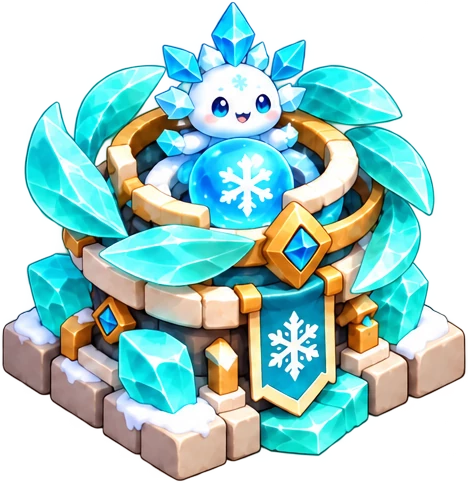
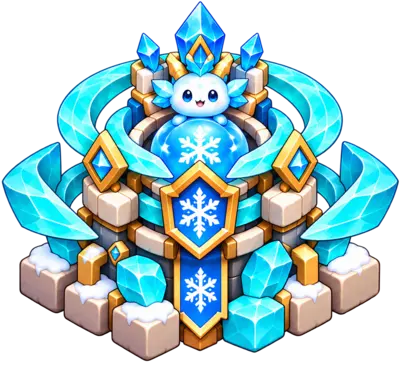
Publish viewport synchronization and approved ice tower textures

diff --git a/ui.js b/ui.js
@@ -1,4 +1,4 @@
-(function(){'use strict';const F=Forest,$=id=>document.getElementById(id);let scene,selected=-1,buildType=-1,manualPause=false,soundOn=false,audio,toastTimer,screenStack=['home'],selectedChapter=0;const PROGRESS_KEY='starwish-remake-campaign-v1';let progress=F.emptyProgress();try{progress=F.readProgress(JSON.parse(localStorage.getItem(PROGRESS_KEY)));}catch{}const formNames=F.TOWERS.map(t=>t.forms);const game=()=>scene.model;const portrait=()=>matchMedia('(orientation:portrait)').matches;
+(function(){'use strict';const F=Forest,artURL=ForestArt.url,$=id=>document.getElementById(id);let scene,selected=-1,buildType=-1,manualPause=false,soundOn=false,audio,toastTimer,screenStack=['home'],selectedChapter=0;const PROGRESS_KEY='starwish-remake-campaign-v1';let progress=F.emptyProgress();try{progress=F.readProgress(JSON.parse(localStorage.getItem(PROGRESS_KEY)));}catch{}const formNames=F.TOWERS.map(t=>t.forms);const game=()=>scene.model;const portrait=()=>matchMedia('(orientation:portrait)').matches;
 function pauseState(){if(!scene)return;game().paused=manualPause||portrait()||document.hidden||screenStack.at(-1)!=='battle';$('pauseBtn').textContent=manualPause?'▸':'Ⅱ';$('pauseBtn').setAttribute('aria-label',manualPause?'繼續遊戲':'暫停遊戲');}
 function toast(text){clearTimeout(toastTimer);$('toast').textContent=text;$('toast').hidden=false;toastTimer=setTimeout(()=>$('toast').hidden=true,2600);}
 function sound(kind){if(!soundOn)return;try{audio??=new(window.AudioContext||window.webkitAudioContext)();if(audio.state==='suspended')audio.resume();const o=audio.createOscillator(),gain=audio.createGain();o.connect(gain);gain.connect(audio.destination);o.type=kind==='fire'?'triangle':'sine';o.frequency.setValueAtTime({arrow:680,fire:150,ice:1000,lightning:230,meteor:90,leak:110,upgrade:440}[kind]||440,audio.currentTime);o.frequency.exponentialRampToValueAtTime(kind==='arrow'?390:70,audio.currentTime+.12);gain.gain.setValueAtTime(.025,audio.currentTime);gain.gain.exponentialRampToValueAtTime(.001,audio.currentTime+.14);o.start();o.stop(audio.currentTime+.15);}catch{}}
@@ -25,14 +25,14 @@ function rebuildPlatforms(){
 }
 function hideTray(){selected=-1;buildType=-1;scene.select(-1);$('tray').hidden=true;document.body.classList.remove('tray-open');}
 function select(i){selected=i;buildType=-1;scene.select(i);renderTray();}
-function art(t){return F.TOWERS[t.type].id+'-'+F.variant(t)+'.webp';}
+function art(t){return artURL('assets/'+F.TOWERS[t.type].id+'-'+F.variant(t)+'.webp');}
 function statHTML(t){const s=F.stats(t);return `<strong>${t.type===4?'每秒傷害':'傷害'} ${Math.round(s.damage)}${s.splash?' · 範圍':''}</strong>${t.type===4?'持續鎖定':('每秒 '+(1/s.interval).toFixed(2)+' 次')} · 射程 ${(s.range/70).toFixed(1)}`;}
 function doBuild(){const r=game().build(selected,buildType);if(!r.ok)return toast(r.reason);sound('upgrade');buildType=-1;scene.process();renderTray();}
 function doUpgrade(branch){const t=game().towers.find(t=>t.pad===selected);if(!t)return;const r=game().upgrade(t,branch);if(!r.ok)return toast(r.reason);sound('upgrade');scene.process();renderTray();}
-function renderTray(){if(selected<0)return;const g=game(),t=g.towers.find(t=>t.pad===selected);$('tray').hidden=false;document.body.classList.add('tray-open');const box=$('trayContent');box.classList.toggle('shop-list',!t&&buildType<0);if(!t&&buildType<0){box.innerHTML=`<span class="tray-caption">選擇你的守護夥伴<br><b>${g.towers.length} / 6 座</b></span>`+F.TOWERS.map((d,i)=>`<button class="shop" data-shop="${i}" aria-label="${d.name}，${d.cost}金幣"><img src="assets/${d.id}-0.webp" alt="${d.name}"></button>`).join('');box.querySelectorAll('[data-shop]').forEach(b=>b.onclick=()=>{buildType=+b.dataset.shop;scene.drawRange(buildType);renderTray();});return;}
-if(!t){const d=F.TOWERS[buildType],temp={type:buildType,level:1,branch:-1};box.innerHTML=`<img class="tower-portrait" src="assets/${d.id}-0.webp" alt=""><div class="tower-title"><b>${d.name}</b><small>確認射程後建造</small></div><div class="stats">${statHTML(temp)}</div><button id="confirmBuild" class="tray-action primary">建造<small>◉ ${d.cost}</small></button><button id="backShop" class="tray-action">返回</button>`;$('confirmBuild').onclick=doBuild;$('backShop').onclick=()=>{buildType=-1;scene.drawRange();renderTray();};const reason=g.reason(selected,buildType);if(reason){$('confirmBuild').classList.remove('primary');$('confirmBuild').innerHTML=`${reason.startsWith('金幣')?'金幣不足':'無法建造'}<small>${reason}</small>`;}return;}
+function renderTray(){if(selected<0)return;const g=game(),t=g.towers.find(t=>t.pad===selected);$('tray').hidden=false;document.body.classList.add('tray-open');const box=$('trayContent');box.classList.toggle('shop-list',!t&&buildType<0);if(!t&&buildType<0){box.innerHTML=`<span class="tray-caption">選擇你的守護夥伴<br><b>${g.towers.length} / 6 座</b></span>`+F.TOWERS.map((d,i)=>`<button class="shop" data-shop="${i}" aria-label="${d.name}，${d.cost}金幣"><img src="${artURL(`assets/${d.id}-0.webp`)}" alt="${d.name}"></button>`).join('');box.querySelectorAll('[data-shop]').forEach(b=>b.onclick=()=>{buildType=+b.dataset.shop;scene.drawRange(buildType);renderTray();});return;}
+if(!t){const d=F.TOWERS[buildType],temp={type:buildType,level:1,branch:-1};box.innerHTML=`<img class="tower-portrait" src="${artURL(`assets/${d.id}-0.webp`)}" alt=""><div class="tower-title"><b>${d.name}</b><small>確認射程後建造</small></div><div class="stats">${statHTML(temp)}</div><button id="confirmBuild" class="tray-action primary">建造<small>◉ ${d.cost}</small></button><button id="backShop" class="tray-action">返回</button>`;$('confirmBuild').onclick=doBuild;$('backShop').onclick=()=>{buildType=-1;scene.drawRange();renderTray();};const reason=g.reason(selected,buildType);if(reason){$('confirmBuild').classList.remove('primary');$('confirmBuild').innerHTML=`${reason.startsWith('金幣')?'金幣不足':'無法建造'}<small>${reason}</small>`;}return;}
 const name=formNames[t.type][F.variant(t)],cost=F.upgradeCost(t);let actions='';if(t.level===1&&F.TOWERS[t.type].branches.length){actions=`<div class="branch-choice">${F.TOWERS[t.type].branches.map((name,i)=>`<button class="tray-action ${i===0?'primary':''}" data-branch="${i}">${name}<small>升至 Lv.2 · ◉ ${cost}</small></button>`).join('')}</div>`;}else if(!F.finalForm(t)){const r=g.upgradeReason(t);actions=`<button id="upgradeTower" class="tray-action ${r?'':'primary'}">${r?'金幣不足':t.level===F.TOWERS[t.type].maxLevel-1?'最終進化':'升至 Lv.'+(t.level+1)}<small>${r||'◉ '+cost}</small></button>`;}else actions='<span class="tray-caption"><b>✦ 最終型態</b><br>已達最高等級</span>';
-box.innerHTML=`<img class="tower-portrait" src="assets/${art(t)}" alt=""><div class="tower-title"><b>${name}</b><small>Lv.${t.level} / ${F.TOWERS[t.type].maxLevel}</small></div><div class="stats">${statHTML(t)}</div>${actions}<button id="towerDetails" class="tray-action tray-info" aria-label="查看守護塔詳細能力">ⓘ</button><button id="sellTower" class="tray-action danger">拆除<small>返還 ◉ ${Math.floor(t.spent*.7)}</small></button>`;box.querySelectorAll('[data-branch]').forEach(b=>b.onclick=()=>doUpgrade(+b.dataset.branch));if($('upgradeTower'))$('upgradeTower').onclick=()=>doUpgrade();$('towerDetails').onclick=()=>details(t);$('sellTower').onclick=()=>{g.sell(t);scene.process();buildType=-1;scene.drawRange();renderTray();};}
+box.innerHTML=`<img class="tower-portrait" src="${art(t)}" alt=""><div class="tower-title"><b>${name}</b><small>Lv.${t.level} / ${F.TOWERS[t.type].maxLevel}</small></div><div class="stats">${statHTML(t)}</div>${actions}<button id="towerDetails" class="tray-action tray-info" aria-label="查看守護塔詳細能力">ⓘ</button><button id="sellTower" class="tray-action danger">拆除<small>返還 ◉ ${Math.floor(t.spent*.7)}</small></button>`;box.querySelectorAll('[data-branch]').forEach(b=>b.onclick=()=>doUpgrade(+b.dataset.branch));if($('upgradeTower'))$('upgradeTower').onclick=()=>doUpgrade();$('towerDetails').onclick=()=>details(t);$('sellTower').onclick=()=>{g.sell(t);scene.process();buildType=-1;scene.drawRange();renderTray();};}
 function details(t){const s=F.stats(t);open(formNames[t.type][F.variant(t)],`<p>${F.TOWERS[t.type].desc}</p><div class="menu-grid"><div>${t.type===4?'初始每秒傷害':'傷害'} <b>${Math.round(s.damage)}</b></div><div>攻速 <b>${t.type===4?'持續照射':(1/s.interval).toFixed(2)+' 次／秒'}</b></div><div>射程 <b>${(s.range/70).toFixed(1)}</b></div><div>型態 <b>${F.finalForm(t)?'最終型態':'Lv.'+t.level}</b></div></div><p>${F.ability(t)}</p><p class="muted">射程以平台中心計算，圓圈與實際攻擊共用同一組數值。</p>`,'detail');}
 function layout(){if(!scene)return;game().pads.forEach(([x,y],i)=>{const b=$("pad"+i);if(!b)return;const t=game().towers.find(t=>t.pad===i);b.style.left=(scene.world.x+x*scene.worldScale)+"px";b.style.top=(scene.world.y+(y-18)*scene.worldScale)+"px";b.style.width=Math.max(44,100*scene.worldScale)+"px";b.style.height=Math.max(44,88*scene.worldScale)+"px";b.setAttribute("aria-label",t?"選取"+formNames[t.type][F.variant(t)]+"，第"+(i+1)+"平台":"第"+(i+1)+"建塔平台");});}
 function hud(){if(!scene)return;const g=game();$('health').textContent=g.hp;$('gold').textContent=g.gold;$('wave').textContent=g.wave;$('speedBtn').textContent=g.speed+'×';$('autoBtn').checked=g.auto;$('waveTotal').textContent='/'+g.waves.length;$('chapterLabel').textContent=F.CHAPTERS[g.stage.chapter].name+' · '+String(g.stage.number).padStart(2,'0');$('stageTitle').textContent=g.stage.name;const next=Math.min(g.wave+1,g.waves.length);$('waveBtn').innerHTML=g.phase==='combat'?`第 ${g.wave} 波進行中`:`開始第 ${next} 波 <span>▸</span>`;$('waveBtn').disabled=g.phase!=='prep';if(selected>=0)renderTray();layout();}
@@ -41,7 +41,7 @@ function preview(){const n=Math.min(game().wave,game().waves.length-1),w=game().
 function menu(){const g=game();open(g.stage.name+' · 暫歇',`<div class="menu-grid"><div>本場擊敗 <b>${g.kills}</b></div><div>守護塔 <b>${g.towers.length} / 6</b></div><div>防守波次 <b>${g.wave} / ${g.waves.length}</b></div><div>城堡生命 <b>${g.hp} / 20</b></div></div><div class="modal-actions"><button id="resume" class="primary">繼續守護 ▸</button><button id="restart">重新開始</button><button id="goHome">主畫面</button></div><div class="modal-actions"><button id="chooseStage">選擇關卡</button><button id="menuGallery">守護塔圖鑑</button><button id="menuHelp">玩法說明</button><button id="menuSound">音效：${soundOn?'開啟':'關閉'}</button></div>`,'menu');$('resume').onclick=()=>{manualPause=false;close();};$('restart').onclick=confirmRestart;$('goHome').onclick=home;$('chooseStage').onclick=()=>campaign(game().stage.chapter);$('menuGallery').onclick=()=>gallery(0);$('menuHelp').onclick=help;$('menuSound').onclick=()=>{toggleSound();menu();};}
 function confirmRestart(){open('重新開始這一關？','<p>本場的守護塔與金幣將重置，可以重新安排你的防線。</p><div class="modal-actions"><button id="cancelRestart">繼續本場</button><button id="yesRestart" class="primary">重新開始</button></div>','confirm');$('cancelRestart').onclick=close;$('yesRestart').onclick=()=>start(true);}
 function help(){open('一點魔法，就能開始',`<div class="help-grid"><article><strong>① 點選石台</strong><p>先點戰場上的「＋」，再點塔的縮圖，查看費用與能力。</p></article><article><strong>② 確認射程後建造</strong><p>金色圓圈就是實際攻擊範圍。本場最多同時 6 座塔。</p></article><article><strong>③ 選擇進化方向</strong><p>五種塔在 Lv.2 選分支、Lv.5 最終進化；星隕只有兩型態，無分支。</p></article><article><strong>④ 守住十二關旅程</strong><p>每關 8～15 波；可隨時建造、升級與拆除，暫停時也能安排防線。</p></article></div><p class="muted">四場景十二關皆開放試玩，六種塔皆可使用。勝利可獲 1 星，保留至少 10 生命為 2 星，滿生命為 3 星；只保留最佳星數，不讀寫正式版紀錄。數值仍為試玩基線。</p>`,'help');}
-function gallery(type=0,form=0){const d=F.TOWERS[type];open('守護塔圖鑑',`<div class="gallery-tabs">${F.TOWERS.map((t,i)=>`<button data-gallery="${i}" class="${i===type?'primary':''}">${t.name}</button>`).join('')}</div><div class="gallery-forms">${formNames[type].map((n,i)=>`<button data-form="${i}" class="${form===i?'active':''}"><img src="assets/${d.id}-${i}.webp" alt="${n}"><span>${n}</span></button>`).join('')}</div><div class="gallery-detail" id="galleryDetail"></div>`,'gallery');document.querySelectorAll('[data-gallery]').forEach(b=>b.onclick=()=>gallery(+b.dataset.gallery));document.querySelectorAll('[data-form]').forEach(b=>b.onclick=()=>galleryForm(type,+b.dataset.form));galleryForm(type,form);}
+function gallery(type=0,form=0){const d=F.TOWERS[type];open('守護塔圖鑑',`<div class="gallery-tabs">${F.TOWERS.map((t,i)=>`<button data-gallery="${i}" class="${i===type?'primary':''}">${t.name}</button>`).join('')}</div><div class="gallery-forms">${formNames[type].map((n,i)=>`<button data-form="${i}" class="${form===i?'active':''}"><img src="${artURL(`assets/${d.id}-${i}.webp`)}" alt="${n}"><span>${n}</span></button>`).join('')}</div><div class="gallery-detail" id="galleryDetail"></div>`,'gallery');document.querySelectorAll('[data-gallery]').forEach(b=>b.onclick=()=>gallery(+b.dataset.gallery));document.querySelectorAll('[data-form]').forEach(b=>b.onclick=()=>galleryForm(type,+b.dataset.form));galleryForm(type,form);}
 function galleryForm(type,form){const t=F.formTower(type,form),s=F.stats(t);document.querySelectorAll('[data-form]').forEach(b=>b.classList.toggle('active',+b.dataset.form===form));$('galleryDetail').innerHTML=`<strong>${formNames[type][form]} · Lv.${t.level}</strong>　${form===0?'建造 ◉ '+F.TOWERS[type].cost:F.finalForm(t)?'最終型態':F.TOWERS[type].branches[t.branch]+'分支'}<div class="stat-pills"><span>${type===4?'初始每秒傷害':'傷害'} ${Math.round(s.damage)}</span><span>${type===4?'持續照射':'每秒 '+(1/s.interval).toFixed(2)+' 次'}</span><span>射程 ${(s.range/70).toFixed(1)}</span>${s.splash?'<span>範圍傷害</span>':''}</div><div class="muted">${F.ability(t)}</div>`;}
 function end(won){
  hideTray();const g=game(),stars=F.earnedStars(g);let saved=true;

diff --git a/index.html b/index.html
@@ -1,4 +1,4 @@
-<!doctype html><html lang="zh-Hant"><head><meta charset="utf-8"><meta name="viewport" content="width=device-width,initial-scale=1,viewport-fit=cover"><meta name="theme-color" content="#244b3d"><meta name="apple-mobile-web-app-capable" content="yes"><meta name="apple-mobile-web-app-title" content="星之祈願"><title>星之祈願：守護小隊｜星願旅程</title><link rel="icon" href="icons/favicon.png"><link rel="apple-touch-icon" href="icons/hope-star-180.png"><link rel="manifest" href="manifest.webmanifest"><link rel="stylesheet" href="style.css"></head><body>
+<!doctype html><html lang="zh-Hant"><head><meta charset="utf-8"><meta name="viewport" content="width=device-width,initial-scale=1,viewport-fit=cover"><meta name="theme-color" content="#244b3d"><meta name="apple-mobile-web-app-capable" content="yes"><meta name="apple-mobile-web-app-title" content="星之祈願"><title>星之祈願：守護小隊｜星願旅程</title><link rel="icon" href="icons/favicon.png"><link rel="apple-touch-icon" href="icons/hope-star-180.png"><link rel="manifest" href="manifest.webmanifest"><link rel="stylesheet" href="style.css?v=b24fae2d1819"></head><body>
 <div id="game" aria-label="花語森林戰場"></div><div class="edge-shade"></div>
 <header id="hud" hidden><div class="resources"><span><i class="heart">♥</i><b id="health">20</b><small>/20</small></span><span><i class="coin">◉</i><b id="gold">320</b></span><span class="wave-stat"><i>⚑</i><b id="wave">0</b><small id="waveTotal">/8</small></span></div><div class="level-title"><small id="chapterLabel">花語森林 · 01</small><strong id="stageTitle">林間初遇</strong></div><div id="battleFoot" hidden><button class="quiet" id="previewBtn">下一波預告 <span>⌃</span></button><div class="wave-actions"><label><input id="autoBtn" type="checkbox" checked><span>自動接續</span></label><button id="waveBtn" class="primary">開始第 1 波 <span>▸</span></button></div></div><nav aria-label="戰場控制"><button id="pauseBtn" aria-label="暫停">Ⅱ</button><button id="speedBtn" aria-label="遊戲速度">1×</button><button id="menuBtn" aria-label="戰場選單">☰</button></nav></header>
 <div id="platforms" hidden aria-label="建塔位置"></div><div id="status" hidden aria-live="polite">點選石台，安排你的守護小隊</div><div id="toast" role="status" hidden></div>
@@ -8,4 +8,4 @@
 <dialog id="modal"><div class="modal-head"><div><small id="modalKicker">STAR WISH DEFENSE</small><h2 id="modalTitle"></h2></div><button class="close" id="closeModal" aria-label="關閉視窗">×</button></div><div id="modalBody"></div></dialog>
 <div id="rotate"><div class="phone-shape"></div><strong>請將手機橫放</strong><p>讓整片魔法森林，展開在你眼前。</p><small>遊戲已暫停 · 橫放後點選繼續</small></div>
 <div id="loader"><span>✦</span><strong>正在喚醒魔法森林</strong><div><i id="loadBar"></i></div><small id="loadText">準備守護小隊…</small></div>
-<script src="vendor/phaser.min.js"></script><script src="stages.js"></script><script src="model.js"></script><script src="scene.js"></script><script src="ui.js"></script></body></html>
+<script src="vendor/phaser.min.js?v=66348b1b5141"></script><script src="stages.js?v=8332796699c0"></script><script src="model.js?v=b10d96684ba9"></script><script src="asset-urls.js?v=387b819f1d52"></script><script src="viewport.js?v=d0a23d18ab97"></script><script src="scene.js?v=840e2e1147f0"></script><script src="ui.js?v=328d3895a891"></script></body></html>

diff --git a/scene.js b/scene.js
@@ -1,9 +1,9 @@
 /* Phaser 4.2.1 owns rendering, texture cache, input and visual feedback.
    model.js owns world coordinates, targeting, damage, wave timing and economy. */
-(function(){'use strict';const F=Forest;
+(function(){'use strict';const F=Forest,artURL=ForestArt.url;
 class ForestScene extends Phaser.Scene{
 constructor(){super('forest');}
-preload(){this.load.on('progress',v=>{document.getElementById('loadBar').style.width=(v*100)+'%'});this.load.on('loaderror',f=>{document.getElementById('loadText').textContent='素材讀取失敗：'+f.key+'，請重新整理';});for(const tower of F.TOWERS)for(let i=0;i<tower.forms.length;i++)this.load.image(tower.id+i,`assets/${tower.id}-${i}.webp`);for(const i of [...new Set(F.ENEMIES.map(e=>e.art))])this.load.image('enemy'+i,`assets/monsters-${i}.webp`);for(const [key,file]of [['forest','forest.webp'],['earth','earth.webp'],['castle','castle-0.webp'],['portal','portal.webp'],['river-prop','river-prop.webp'],['ruin-prop','ruin-prop.webp'],['lantern-prop','lantern-prop.webp']])this.load.image(key,'assets/'+file);}
+preload(){this.load.on('progress',v=>{document.getElementById('loadBar').style.width=(v*100)+'%'});this.load.on('loaderror',f=>{document.getElementById('loadText').textContent='素材讀取失敗：'+f.key+'，請重新整理';});for(const tower of F.TOWERS)for(let i=0;i<tower.forms.length;i++)this.load.image(tower.id+i,artURL(`assets/${tower.id}-${i}.webp`));for(const i of [...new Set(F.ENEMIES.map(e=>e.art))])this.load.image('enemy'+i,`assets/monsters-${i}.webp`);for(const [key,file]of [['forest','forest.webp'],['earth','earth.webp'],['castle','castle-0.webp'],['portal','portal.webp'],['river-prop','river-prop.webp'],['ruin-prop','ruin-prop.webp'],['lantern-prop','lantern-prop.webp']])this.load.image(key,'assets/'+file);}
 create(){this.model=new F.Game;this.selected=-1;this.playing=false;this.ambient=0;this.enemyViews=new Map;this.towerViews=new Map;this.background=this.add.image(0,0,'forest');this.wash=this.add.graphics();this.world=this.add.container(0,0);this.buildWorld();this.layout();this.scale.on('resize',()=>this.layout());document.getElementById('loader').hidden=true;window.battle=this;window.dispatchEvent(new Event('forest-ready'));}
 buildWorld(){
  const stage=this.model.stage,theme=F.CHAPTERS[stage.chapter].theme;
@@ -91,5 +91,5 @@ for(const t of this.model.towers){if(t.type!==4||!t.targetId)continue;const targ
 for(const p of this.model.shots)this.drawShot(p);
 this.leaves.clear();for(let i=0;i<12;i++){const t=this.ambient*.2+i*1.7,x=(i*127+t*17)%1280,y=25+(i*73+t*6)%360;const chapter=this.model.stage.chapter;this.leaves.fillStyle([i%3?0xc4dc76:0xf7e7a5,0xc4f2ed,0xeaf5ff,0xf4dcff][chapter],.25+.18*Math.sin(t+i)).fillEllipse(x,y,chapter===2?2:4+i%3,2);}if(this.playing)window.UI?.frame();}
 }
-window.ForestScene=ForestScene;window.phaserGame=new Phaser.Game({type:Phaser.AUTO,parent:'game',backgroundColor:'#466b40',scale:{mode:Phaser.Scale.RESIZE,width:window.innerWidth,height:window.innerHeight},render:{antialias:true,roundPixels:false},resolution:Math.min(window.devicePixelRatio||1,2),scene:[ForestScene],audio:{noAudio:true},fps:{target:60}});
+window.ForestScene=ForestScene;window.phaserGame=new Phaser.Game({type:Phaser.AUTO,parent:'game',backgroundColor:'#466b40',scale:{mode:Phaser.Scale.NONE,...ForestViewport.measure()},render:{antialias:true,roundPixels:false},resolution:Math.min(window.devicePixelRatio||1,2),scene:[ForestScene],audio:{noAudio:true},fps:{target:60}});ForestViewport.bind(window.phaserGame);
 })();

diff --git a/viewport.js b/viewport.js
@@ -1,0 +1,42 @@
+/* Keep renderer pixels and DOM hit targets on one visible CSS viewport. */
+(function(root){'use strict';
+function measure(){
+ const doc=document.documentElement,visual=root.visualViewport;
+ const width=Math.max(1,Math.round(doc.clientWidth||root.innerWidth));
+ const heights=[doc.clientHeight,root.innerHeight].filter(n=>Number.isFinite(n)&&n>0);
+ // Ignore a stale portrait visual viewport during rotation, and preserve pinch zoom.
+ if(visual&&Math.abs(visual.scale-1)<.01&&Math.abs(visual.width-width)<2&&visual.height>0)heights.push(visual.height);
+ return{width,height:Math.max(1,Math.round(Math.min(...heights)))};
+}
+function bind(game){
+ let frame=0,timers=[],disposed=false;
+ const host=document.getElementById('game');
+ function sync(){
+  frame=0;if(disposed||!game.isBooted)return;
+  const {width,height}=measure();
+  host.style.width=width+'px';host.style.height=height+'px';
+  if(game.scale.width!==width||game.scale.height!==height)game.scale.resize(width,height);
+  else game.scale.updateBounds();
+  // Refresh the shared world transform and DOM hit areas even after same-size restore.
+  root.battle?.layout();
+ }
+ function schedule(){
+  if(disposed)return;
+  if(!frame)frame=requestAnimationFrame(sync);
+  timers.forEach(clearTimeout);
+  // Mobile layout/visual viewport updates may arrive on different frames.
+  timers=[setTimeout(sync,100),setTimeout(sync,350)];
+ }
+ const listeners=[];
+ function listen(target,event,handler=schedule){if(!target)return;target.addEventListener(event,handler);listeners.push(()=>target.removeEventListener(event,handler));}
+ for(const event of ['resize','orientationchange','pageshow','focus'])listen(root,event);
+ listen(document,'visibilitychange',()=>{if(!document.hidden)schedule();});
+ listen(document,'fullscreenchange');
+ listen(root.visualViewport,'resize');listen(root.visualViewport,'scroll');
+ game.events.once('ready',schedule);
+ game.events.once('destroy',()=>{disposed=true;cancelAnimationFrame(frame);timers.forEach(clearTimeout);listeners.forEach(remove=>remove());});
+ schedule();
+ return{sync:schedule};
+}
+root.ForestViewport={measure,bind};
+})(window);

diff --git a/style.css b/style.css
@@ -24,3 +24,6 @@ header nav,.resources,#battleFoot{flex-shrink:0}
 
 .chapter-tabs{display:grid;grid-template-columns:repeat(4,minmax(0,1fr));gap:7px}.chapter-tabs button{padding:7px 5px;min-height:44px;font-size:12px;white-space:nowrap}.campaign-lead{font-size:12px;color:#71856d}.stage-grid{display:grid;grid-template-columns:repeat(3,minmax(0,1fr));gap:10px}.stage-card{display:flex;flex-direction:column;align-items:center;gap:5px;padding:12px 7px;background:#e7edd9;min-width:0}.stage-card strong{font-size:16px}.stage-card>span{font-size:11px;font-weight:500}.stage-card .stage-number{font-size:9px;letter-spacing:.15em;color:#778c73}.stage-card .stage-stars{font-size:19px;color:#b58d3b;letter-spacing:4px}.route-preview{width:100%;height:74px;background:#d8e3c3;border-radius:10px}.route-preview polyline{fill:none;stroke:#ad925f;stroke-width:30;stroke-linejoin:miter}.route-preview circle{fill:#6d916b;stroke:#fffbdc;stroke-width:4}.route-preview .goal{fill:#ddb861}.theme-river{background:#e3edec}.theme-river .route-preview{background:#bdd9db}.theme-frost{background:#e6edf5}.theme-frost .route-preview{background:#c6d6e7}.theme-sanctuary{background:#ece6f3}.theme-sanctuary .route-preview{background:#d0c3e1}.campaign-note{font-size:11px;color:#839276;margin:12px 0 0!important;text-align:center}
 @media(max-height:500px){.campaign-dialog{padding:14px}.campaign-dialog .modal-head{margin-bottom:8px}.campaign-dialog .modal-head h2{font-size:18px}.campaign-lead{margin:6px 0!important;font-size:11px}.stage-card{padding:7px 5px;gap:2px}.stage-card strong{font-size:13px}.route-preview{height:58px}.stage-card>span{font-size:10px}.campaign-note{margin-top:7px!important}.chapter-tabs button{font-size:11px}.stage-grid{gap:7px}}
+
+/* Explicit visible-viewport dimensions are synchronized by viewport.js. */
+#game{inset:auto;left:0;top:0;width:100%;height:100dvh;overflow:hidden}

diff --git a/asset-urls.js b/asset-urls.js
@@ -1,0 +1,13 @@
+/* Generated by scripts/update-ice-assets.py from ICE-ASSETS.json.
+   Only URLs are versioned; approved image bytes are never changed. */
+(function(root){'use strict';
+const versions=Object.freeze({
+  "assets/ice-0.webp": "612cd50b9e073725b7e35826a68fb604fe72f971",
+  "assets/ice-1.webp": "c0f37c3fdf7a96e5afc6b3496ce107773330ad00",
+  "assets/ice-2.webp": "ac477bfb90a6ba02d0a8a1b36ec7c92d1cb2eaa4",
+  "assets/ice-3.webp": "6a91977fa3cce2fd2b017aaf0c18bcc4e1a5b609",
+  "assets/ice-4.webp": "adc501f89382d3be091e5a991fbaf5a95e56cd6c"
+});
+function url(path){return versions[path]?path+'?v='+versions[path]:path;}
+root.ForestArt=Object.freeze({url,versions});
+})(globalThis);
